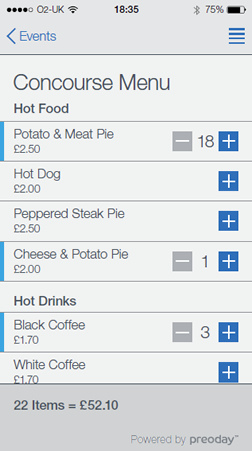
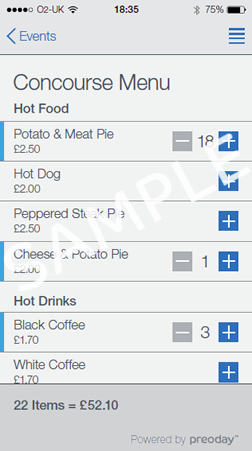
stripe issue fixed, "sample" watermark.

diff --git a/code/settings/payment_logic.php b/code/settings/payment_logic.php
@@ -14,8 +14,14 @@
 	$stripeLink = $curlResult; //this should have come as JSON!
 	
 	//auto choose demo or live
-	if(preg_match('/demo/',$_SERVER['HTTP_HOST'])) $stripeLink .= "&redirect_uri=http://demo.preoday.com/code/shared/accept_stripe.php";
-	else $stripeLink .= "&redirect_uri=http://preoday.com/code/shared/accept_stripe.php";
+	$url = "";
+	
+	if( (isset($_SERVER['HTTPS']) && !empty($_SERVER['HTTPS']) && $_SERVER['HTTPS'] !== 'off') || ($_SERVER['SERVER_PORT'] == 443) ) $url="https://";
+	else $url="http://";
+	
+	$url.=$_SERVER['HTTP_HOST'];
+	
+	$stripeLink .= "&redirect_uri=".$url."/code/shared/accept_stripe.php";
 	
 	//check for pre-connection
 	
